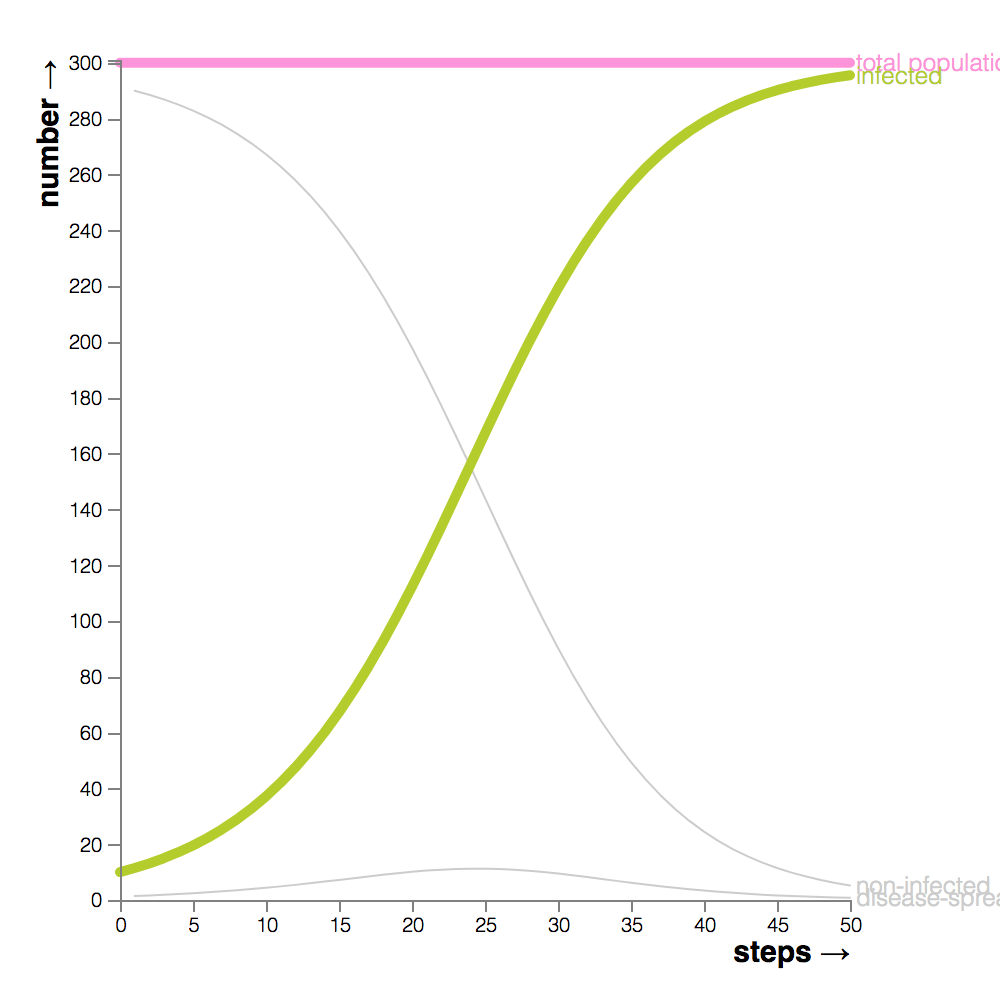
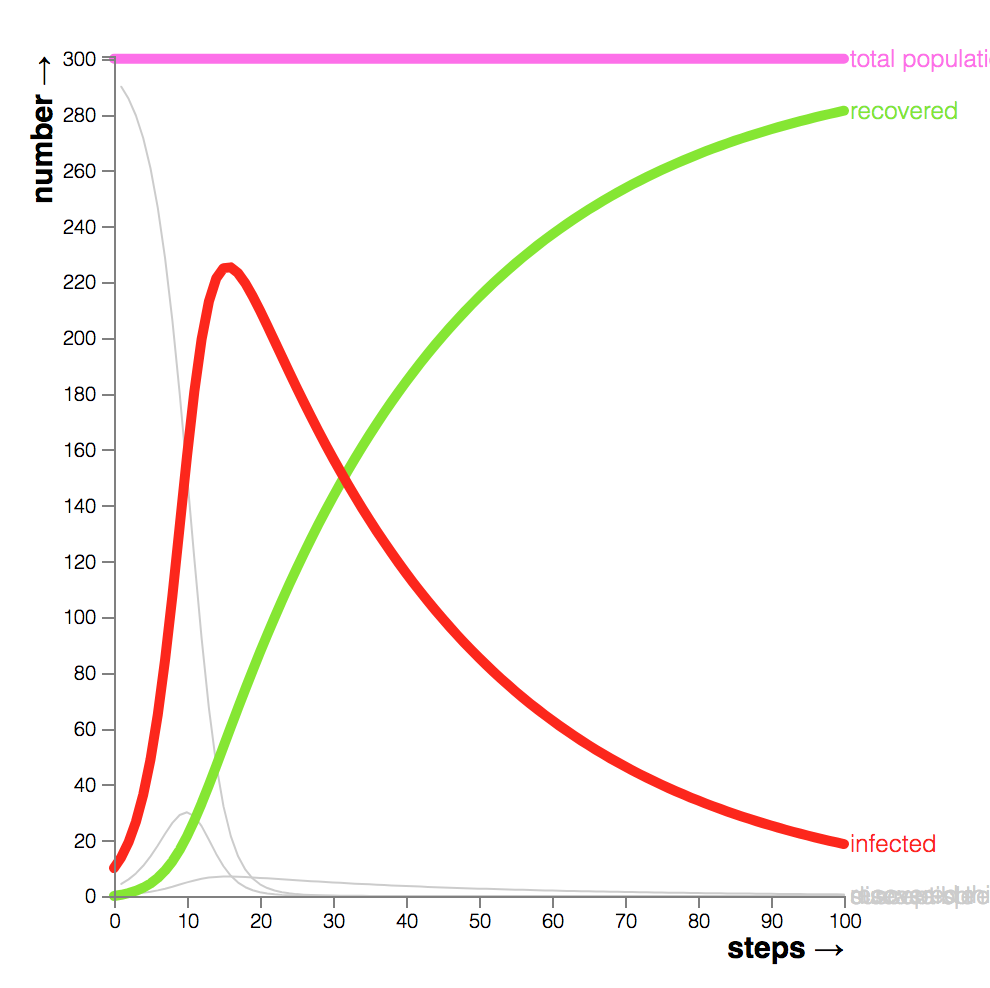
FINALIZED DONE

diff --git a/nonlinear/nonlinear-demo.js b/nonlinear/nonlinear-demo.js
@@ -1,7 +1,8 @@
 var DEMOS = {
 	waves: {"start":{"actions":[{"type":"graph/number","varname":{"type":"variableName","refID":"id0"},"value":{"type":"number","chain":[{"type":"number_raw","value":0}]}},{"type":"graph/number","varname":{"type":"variableName","refID":"id1"},"value":{"type":"number","chain":[{"type":"number_raw","value":1}]}}],"resetVariables":true,"type":"actions"},"iterations":{"value":100,"type":"number"},"iterate":{"actions":[{"type":"instructions/comment","value":"two linear rules = one non-linear result!\nthat's the magic of FEEDBACK LOOPS ✨"},{"type":"math/set","varname":{"type":"variableName","refID":"id2"},"value":{"type":"number","chain":[{"type":"number_raw","value":0.15}]}},{"type":"math/operation","operation":{"value":"+","type":"choose"},"varname":{"type":"variableName","refID":"id0"},"value":{"type":"number","chain":[{"type":"variableName","refID":"id1"},{"type":"choose","value":"*"},{"type":"variableName","refID":"id2"}]}},{"type":"math/operation","operation":{"value":"-","type":"choose"},"varname":{"type":"variableName","refID":"id1"},"value":{"type":"number","chain":[{"type":"variableName","refID":"id0"},{"type":"choose","value":"*"},{"type":"variableName","refID":"id2"}]}}],"resetVariables":false,"type":"actions"},"_references":{"id0":{"id":"id0","tags":["number"],"data":{"value":"X","color":[284,0.71,1]},"connected":3},"id1":{"id":"id1","tags":["number"],"data":{"value":"Y","color":[209,0.5,1]},"connected":3},"id2":{"id":"id2","tags":["number"],"data":{"value":"something","color":[358,0.69,1]},"connected":3}}},
 	spring: {"start":{"actions":[{"type":"instructions/comment","value":"Let's simulate a simple spring system! Change the initial conditions & parameters as you please."},{"type":"graph/number","varname":{"type":"variableName","refID":"id0"},"value":{"type":"number","chain":[{"type":"number_raw","value":10}]}},{"type":"graph/number","varname":{"type":"variableName","refID":"id1"},"value":{"type":"number","chain":[{"type":"number_raw","value":0}]}}],"resetVariables":true,"type":"actions"},"iterations":{"value":100,"type":"number"},"iterate":{"actions":[{"type":"instructions/comment","value":"Hooke's Law for springs: F = -kx\nso, acceleration = (some negative number) * position"},{"type":"math/set","varname":{"type":"variableName","refID":"id2"},"value":{"type":"number","chain":[{"type":"number_raw","value":-0.05},{"type":"choose","value":"*"},{"type":"variableName","refID":"id0"}]}},{"type":"instructions/comment","value":"d/dt velocity = acceleration (by definition)\nd/dt position = velocity (by definition)"},{"type":"math/operation","operation":{"value":"+","type":"choose"},"varname":{"type":"variableName","refID":"id1"},"value":{"type":"number","chain":[{"type":"variableName","refID":"id2"}]}},{"type":"math/operation","operation":{"value":"+","type":"choose"},"varname":{"type":"variableName","refID":"id0"},"value":{"type":"number","chain":[{"type":"variableName","refID":"id1"}]}},{"type":"instructions/comment","value":"And finally, friction slows down the velocity:"},{"type":"math/operation","operation":{"value":"*","type":"choose"},"varname":{"type":"variableName","refID":"id1"},"value":{"type":"number","chain":[{"type":"number_raw","value":0.94}]}}],"resetVariables":false,"type":"actions"},"_references":{"id0":{"id":"id0","tags":["number"],"data":{"value":"position","color":[0,0.6,1]},"connected":3},"id1":{"id":"id1","tags":["number"],"data":{"value":"velocity","color":[30,0.8,1]},"connected":4},"id2":{"id":"id2","tags":["number"],"data":{"value":"acceleration","color":[210,0.8,1]},"connected":2}}},
-	disease: {"start":{"actions":[{"type":"instructions/comment","value":"Let's simulate a basic model of disease spreading!"},{"type":"graph/number","varname":{"type":"variableName","refID":"id0"},"value":{"type":"number","chain":[{"type":"number_raw","value":10}]}},{"type":"graph/number","varname":{"type":"variableName","refID":"id1"},"value":{"type":"number","chain":[{"type":"number_raw","value":300}]}}],"resetVariables":true,"type":"actions"},"iterations":{"value":50,"type":"number"},"iterate":{"actions":[{"type":"math/set","varname":{"type":"variableName","refID":"id2"},"value":{"type":"number","chain":[{"type":"variableName","refID":"id1"},{"type":"choose","value":"-"},{"type":"variableName","refID":"id0"}]}},{"type":"instructions/comment","value":"The number of all POSSIBLE interactions would be [infected] x [non-infected], so the number of interactions that ACTUALLY pass on the infection would be that times some small constant."},{"type":"math/set","varname":{"type":"variableName","refID":"id3"},"value":{"type":"number","chain":[{"type":"variableName","refID":"id0"},{"type":"choose","value":"*"},{"type":"variableName","refID":"id2"},{"type":"choose","value":"*"},{"type":"number_raw","value":0.0005}]}},{"type":"math/operation","operation":{"value":"+","type":"choose"},"varname":{"type":"variableName","refID":"id0"},"value":{"type":"number","chain":[{"type":"variableName","refID":"id3"}]}}],"resetVariables":false,"type":"actions"},"_references":{"id0":{"id":"id0","tags":["number"],"data":{"value":"infected","color":[68,0.95,0.81]},"connected":4},"id1":{"id":"id1","tags":["number"],"data":{"value":"total population","color":[321,0.43,1]},"connected":2},"id2":{"id":"id2","tags":["number"],"data":{"value":"non-infected","color":[210,0.8,1]},"connected":2},"id3":{"id":"id3","tags":["number"],"data":{"value":"disease-spreading contacts","color":[260,0.7,1]},"connected":2}}},
+	//disease: {"start":{"actions":[{"type":"instructions/comment","value":"Let's simulate a basic model of disease spreading!"},{"type":"graph/number","varname":{"type":"variableName","refID":"id0"},"value":{"type":"number","chain":[{"type":"number_raw","value":10}]}},{"type":"graph/number","varname":{"type":"variableName","refID":"id1"},"value":{"type":"number","chain":[{"type":"number_raw","value":300}]}}],"resetVariables":true,"type":"actions"},"iterations":{"value":50,"type":"number"},"iterate":{"actions":[{"type":"math/set","varname":{"type":"variableName","refID":"id2"},"value":{"type":"number","chain":[{"type":"variableName","refID":"id1"},{"type":"choose","value":"-"},{"type":"variableName","refID":"id0"}]}},{"type":"instructions/comment","value":"The number of all POSSIBLE interactions would be [infected] x [non-infected], so the number of interactions that ACTUALLY pass on the infection would be that times some small constant."},{"type":"math/set","varname":{"type":"variableName","refID":"id3"},"value":{"type":"number","chain":[{"type":"variableName","refID":"id0"},{"type":"choose","value":"*"},{"type":"variableName","refID":"id2"},{"type":"choose","value":"*"},{"type":"number_raw","value":0.0005}]}},{"type":"math/operation","operation":{"value":"+","type":"choose"},"varname":{"type":"variableName","refID":"id0"},"value":{"type":"number","chain":[{"type":"variableName","refID":"id3"}]}}],"resetVariables":false,"type":"actions"},"_references":{"id0":{"id":"id0","tags":["number"],"data":{"value":"infected","color":[68,0.95,0.81]},"connected":4},"id1":{"id":"id1","tags":["number"],"data":{"value":"total population","color":[321,0.43,1]},"connected":2},"id2":{"id":"id2","tags":["number"],"data":{"value":"non-infected","color":[210,0.8,1]},"connected":2},"id3":{"id":"id3","tags":["number"],"data":{"value":"disease-spreading contacts","color":[260,0.7,1]},"connected":2}}},
+	disease: {"start":{"actions":[{"type":"instructions/comment","value":"Let's simulate a basic model of disease spreading!"},{"type":"graph/number","varname":{"type":"variableName","refID":"id0"},"value":{"type":"number","chain":[{"type":"number_raw","value":10}]}},{"type":"graph/number","varname":{"type":"variableName","refID":"id1"},"value":{"type":"number","chain":[{"type":"number_raw","value":300}]}},{"type":"graph/number","varname":{"type":"variableName","refID":"id4"},"value":{"type":"number","chain":[{"type":"number_raw","value":0}]}}],"resetVariables":true,"type":"actions"},"iterations":{"value":100,"type":"number"},"iterate":{"actions":[{"type":"instructions/comment","value":"[susceptible] = anyone who's not NOT infected NOR recovered"},{"type":"math/set","varname":{"type":"variableName","refID":"id2"},"value":{"type":"number","chain":[{"type":"variableName","refID":"id1"},{"type":"choose","value":"-"},{"type":"variableName","refID":"id0"},{"type":"choose","value":"-"},{"type":"variableName","refID":"id4"}]}},{"type":"instructions/comment","value":"The number of all POSSIBLE interactions would be [infected] x [susceptible], so the number of interactions that ACTUALLY pass on the infection would be that times some small constant."},{"type":"math/set","varname":{"type":"variableName","refID":"id3"},"value":{"type":"number","chain":[{"type":"variableName","refID":"id0"},{"type":"choose","value":"*"},{"type":"variableName","refID":"id2"},{"type":"choose","value":"*"},{"type":"number_raw","value":0.0015}]}},{"type":"math/operation","operation":{"value":"+","type":"choose"},"varname":{"type":"variableName","refID":"id0"},"value":{"type":"number","chain":[{"type":"variableName","refID":"id3"}]}},{"type":"instructions/comment","value":"Every step, some proportion of [infected] people recover."},{"type":"math/set","varname":{"type":"variableName","refID":"id5"},"value":{"type":"number","chain":[{"type":"number_raw","value":0.03},{"type":"choose","value":"*"},{"type":"variableName","refID":"id0"}]}},{"type":"math/operation","operation":{"value":"-","type":"choose"},"varname":{"type":"variableName","refID":"id0"},"value":{"type":"number","chain":[{"type":"variableName","refID":"id5"}]}},{"type":"math/operation","operation":{"value":"+","type":"choose"},"varname":{"type":"variableName","refID":"id4"},"value":{"type":"number","chain":[{"type":"variableName","refID":"id5"}]}}],"resetVariables":false,"type":"actions"},"_references":{"id0":{"id":"id0","tags":["number"],"data":{"value":"infected","color":[8,1,1]},"connected":6},"id1":{"id":"id1","tags":["number"],"data":{"value":"total population","color":[308,0.58,1]},"connected":2},"id2":{"id":"id2","tags":["number"],"data":{"value":"susceptible","color":[210,0.8,1]},"connected":2},"id3":{"id":"id3","tags":["number"],"data":{"value":"disease-spreading contacts","color":[260,0.7,1]},"connected":2},"id4":{"id":"id4","tags":["number"],"data":{"value":"recovered","color":[89,0.91,0.91]},"connected":3},"id5":{"id":"id5","tags":["number"],"data":{"value":"recovered this step","color":[30,0.8,1]},"connected":3}}},
 	prey: {"start":{"actions":[{"type":"instructions/comment","value":"Let's simulate a basic predator-prey relationship!"},{"type":"graph/number","varname":{"type":"variableName","refID":"id0"},"value":{"type":"number","chain":[{"type":"number_raw","value":2}]}},{"type":"graph/number","varname":{"type":"variableName","refID":"id1"},"value":{"type":"number","chain":[{"type":"number_raw","value":100}]}}],"resetVariables":true,"type":"actions"},"iterations":{"value":169,"type":"number"},"iterate":{"actions":[{"type":"instructions/comment","value":"Rabbits multiply exponentially:"},{"type":"math/operation","operation":{"value":"*","type":"choose"},"varname":{"type":"variableName","refID":"id1"},"value":{"type":"number","chain":[{"type":"number_raw","value":1.03}]}},{"type":"instructions/comment","value":"How many rabbits eaten? The # of all POSSIBLE fox-rabbit encounters is [foxes] x [rabbits], so the # of ACTUAL encounters where a rabbit is eaten, is that number times some small constant."},{"type":"math/set","varname":{"type":"variableName","refID":"id2"},"value":{"type":"number","chain":[{"type":"variableName","refID":"id0"},{"type":"choose","value":"*"},{"type":"variableName","refID":"id1"},{"type":"choose","value":"*"},{"type":"number_raw","value":0.01}]}},{"type":"math/operation","operation":{"value":"-","type":"choose"},"varname":{"type":"variableName","refID":"id1"},"value":{"type":"number","chain":[{"type":"variableName","refID":"id2"}]}},{"type":"instructions/comment","value":"Foxes' reproduction depends on how many rabbits they eat! Since a fox needs to eat more than one rabbit to have the energy to create one new fox, [foxes] increases by [rabbits eaten] times some small constant."},{"type":"math/operation","operation":{"value":"+","type":"choose"},"varname":{"type":"variableName","refID":"id0"},"value":{"type":"number","chain":[{"type":"variableName","refID":"id2"},{"type":"choose","value":"*"},{"type":"number_raw","value":0.2}]}},{"type":"instructions/comment","value":"And finally, some fraction of foxes die at each step."},{"type":"math/set","varname":{"type":"variableName","refID":"id3"},"value":{"type":"number","chain":[{"type":"number_raw","value":0.09},{"type":"choose","value":"*"},{"type":"variableName","refID":"id0"}]}},{"type":"math/operation","operation":{"value":"-","type":"choose"},"varname":{"type":"variableName","refID":"id0"},"value":{"type":"number","chain":[{"type":"variableName","refID":"id3"}]}},{"type":"instructions/comment","value":"P.S: This is the classic Lotka-Volterra model. The population boom-busts aren't supposed to get bigger over time -- that's a \"glitch\" caused by this model being discrete-time, rather than continuous. Will fix later."}],"resetVariables":false,"type":"actions"},"_references":{"id0":{"id":"id0","tags":["number"],"data":{"value":"foxes","color":[29,0.95,1]},"connected":5},"id1":{"id":"id1","tags":["number"],"data":{"value":"rabbits","color":[307,1,1]},"connected":4},"id2":{"id":"id2","tags":["number"],"data":{"value":"rabbits eaten","color":[210,0.8,1]},"connected":3},"id3":{"id":"id3","tags":["number"],"data":{"value":"dead foxes","color":[0,0.6,1]},"connected":2}}},
 	blank: {}
 };
@@ -11,6 +12,7 @@ window.onload = function(){
 	// Data
 	var model = _getParameterByName("model");
 	var data = model ? DEMOS[model] : Joy.loadFromURL();
+	data = data || {};
 
 	// Joy
 	window.joy = new Joy({

diff --git a/turtle/index.html b/turtle/index.html
@@ -34,27 +34,41 @@
 			<div id="player"></div>
 			<div id="editor"></div>
 		</div>
-		<div id="demos">
-			<a href="?drawing=star">
-				<img src="thumbs/star.png"/>
-				<span>star</span>
-			</a>
-			<a href="?drawing=spiral">
-				<img src="thumbs/spiral.png"/>
-				<span>spiral</span>
-			</a>
-			<a href="?drawing=spiral2">
-				<img src="thumbs/spiral2.png"/>
-				<span>spiral 2</span>
-			</a>
-			<a href="?drawing=flower">
-				<img src="thumbs/flower.png"/>
-				<span>flower</span>
-			</a>
-			<a href="?">
-				<img src="thumbs/blank.png"/>
-				<span>blank</span>
-			</a>
+		<div id="footer">
+			<div id="more-shtuff">
+			<span style="font-size:2em;">more turtle drawings &rarr;</span>
+			<br>
+			<a href="../nonlinear/?model=waves">see nonlinear demo</a>
+			|
+			<a href="../">back to homepage</a>
+			<br><br>
+			what do you think of Joy.js so far?
+			please
+			<a href="https://ncase.typeform.com/to/wkjL2q" target="_blank">send your feedback here</a>,
+			thank you! :)
+			</div>
+			<div id="demos">
+				<a href="?drawing=star">
+					<img src="thumbs/star.png"/>
+					<span>star</span>
+				</a>
+				<a href="?drawing=spiral">
+					<img src="thumbs/spiral.png"/>
+					<span>spiral</span>
+				</a>
+				<a href="?drawing=spiral2">
+					<img src="thumbs/spiral2.png"/>
+					<span>spiral 2</span>
+				</a>
+				<a href="?drawing=flower">
+					<img src="thumbs/flower.png"/>
+					<span>flower</span>
+				</a>
+				<a href="?">
+					<img src="thumbs/blank.png"/>
+					<span>blank</span>
+				</a>
+			</div>
 		</div>
 	</div>
 </body>

diff --git a/nonlinear/index.html b/nonlinear/index.html
@@ -11,27 +11,41 @@
 			<div id="player"></div>
 			<div id="editor"></div>
 		</div>
-		<div id="demos">
-			<a href="?model=waves">
-				<img src="thumbs/waves.png"/>
-				<span>waves</span>
-			</a>
-			<a href="?model=spring">
-				<img src="thumbs/spring.png"/>
-				<span>spring</span>
-			</a>
-			<a href="?model=disease">
-				<img src="thumbs/disease.png"/>
-				<span>disease</span>
-			</a>
-			<a href="?model=prey">
-				<img src="thumbs/prey.png"/>
-				<span>prey</span>
-			</a>
-			<a href="?">
-				<img src="thumbs/blank.png"/>
-				<span>blank</span>
-			</a>
+		<div id="footer">
+			<div id="more-shtuff">
+			<span style="font-size:1.9em;">more nonlinear models &rarr;</span>
+			<br>
+			<a href="../turtle/?drawing=star">see turtle demo</a>
+			|
+			<a href="../">back to homepage</a>
+			<br><br>
+			what do you think of Joy.js so far?
+			please
+			<a href="https://ncase.typeform.com/to/wkjL2q" target="_blank">send your feedback here</a>,
+			thank you! :)
+			</div>
+			<div id="demos">
+				<a href="?model=waves">
+					<img src="thumbs/waves.png"/>
+					<span>waves</span>
+				</a>
+				<a href="?model=spring">
+					<img src="thumbs/spring.png"/>
+					<span>spring</span>
+				</a>
+				<a href="?model=disease">
+					<img src="thumbs/disease.png"/>
+					<span>disease</span>
+				</a>
+				<a href="?model=prey">
+					<img src="thumbs/prey.png"/>
+					<span>prey</span>
+				</a>
+				<a href="?">
+					<img src="thumbs/blank.png"/>
+					<span>blank</span>
+				</a>
+			</div>
 		</div>
 	</div>
 </body>

diff --git a/index.html b/index.html
@@ -16,12 +16,14 @@
 			<div class="header">
 				play the demos:
 			</div>
-			<a href="/turtle"><img src="css/demo-turtle.png"/></a>
+			<a href="turtle/?drawing=star"><img src="css/demo-turtle.png"/></a>
 			<div style="margin-bottom:10px"></div>
-			<a href="/nonlinear"><img src="css/demo-nonlinear.png"/></a>
+			<a href="nonlinear/?model=waves"><img src="css/demo-nonlinear.png"/></a>
 			<span class="footnote">
 			* NOTE: this is just a demo version of JOY.js!
-			if you wanna help, please send your feedback here :) Thanks!
+			if you wanna help, please
+			<a href="https://ncase.typeform.com/to/wkjL2q" target="_blank">send your feedback here</a>
+			:) Thanks!
 			</span>
 		</div>
 	</div>

diff --git a/css/demo.css b/css/demo.css
@@ -37,11 +37,22 @@ pre{
 	border-bottom: 2px dashed #ccc;
 	margin: 1.5em 0;
 }
+#footer{
+	width: 920px;
+	height: 105px;
+	margin: 20px auto;
+}
+#more-shtuff{
+	width: 320px;
+    float: left;
+    font-size: 14px;
+    line-height: 1.5em;
+}
 #demos{
 	overflow: hidden;
-	width: 800px;
+    width: 600px;
 	text-align: center;
-	margin: 0 auto;
+    float: right;
 }
 #demos a{
 	display: inline-block;

diff --git a/turtle/turtle-demo.js b/turtle/turtle-demo.js
@@ -12,6 +12,7 @@ window.onload = function(){
 	// Data
 	var model = _getParameterByName("drawing");
 	var data = model ? DEMOS[model] : Joy.loadFromURL();
+	data = data || {};
 
 	// Init
 	window.turtle = new Turtle({
